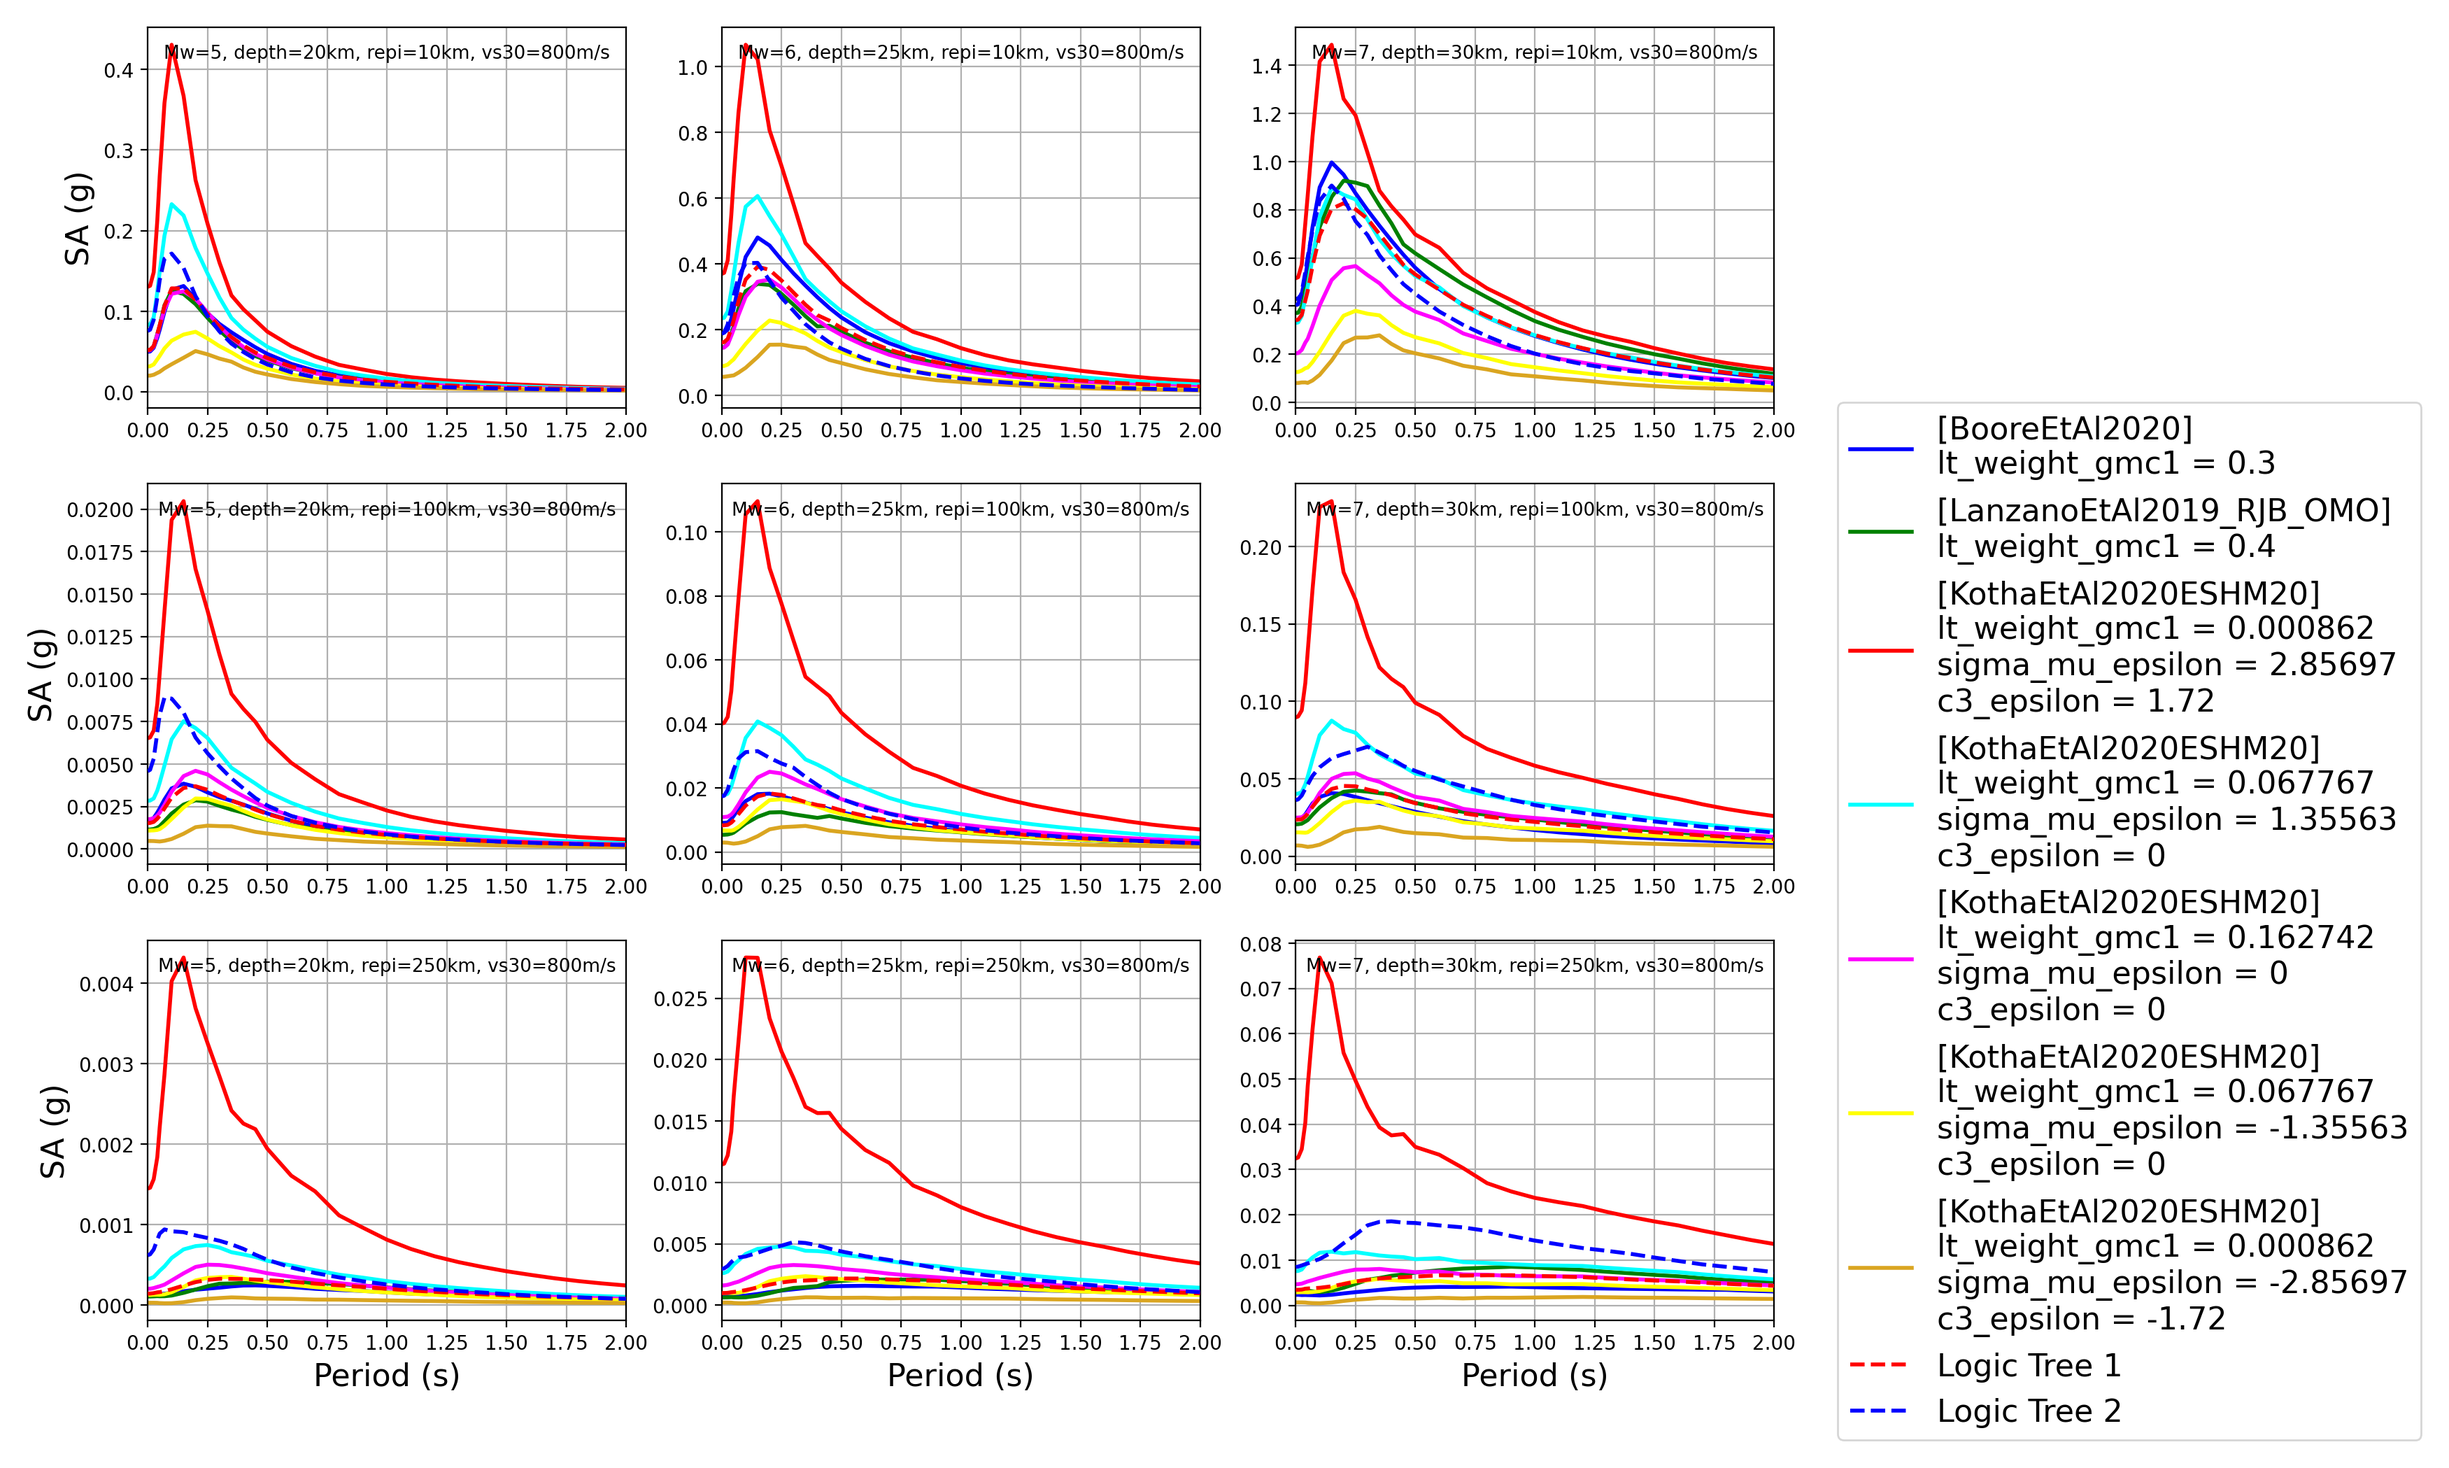
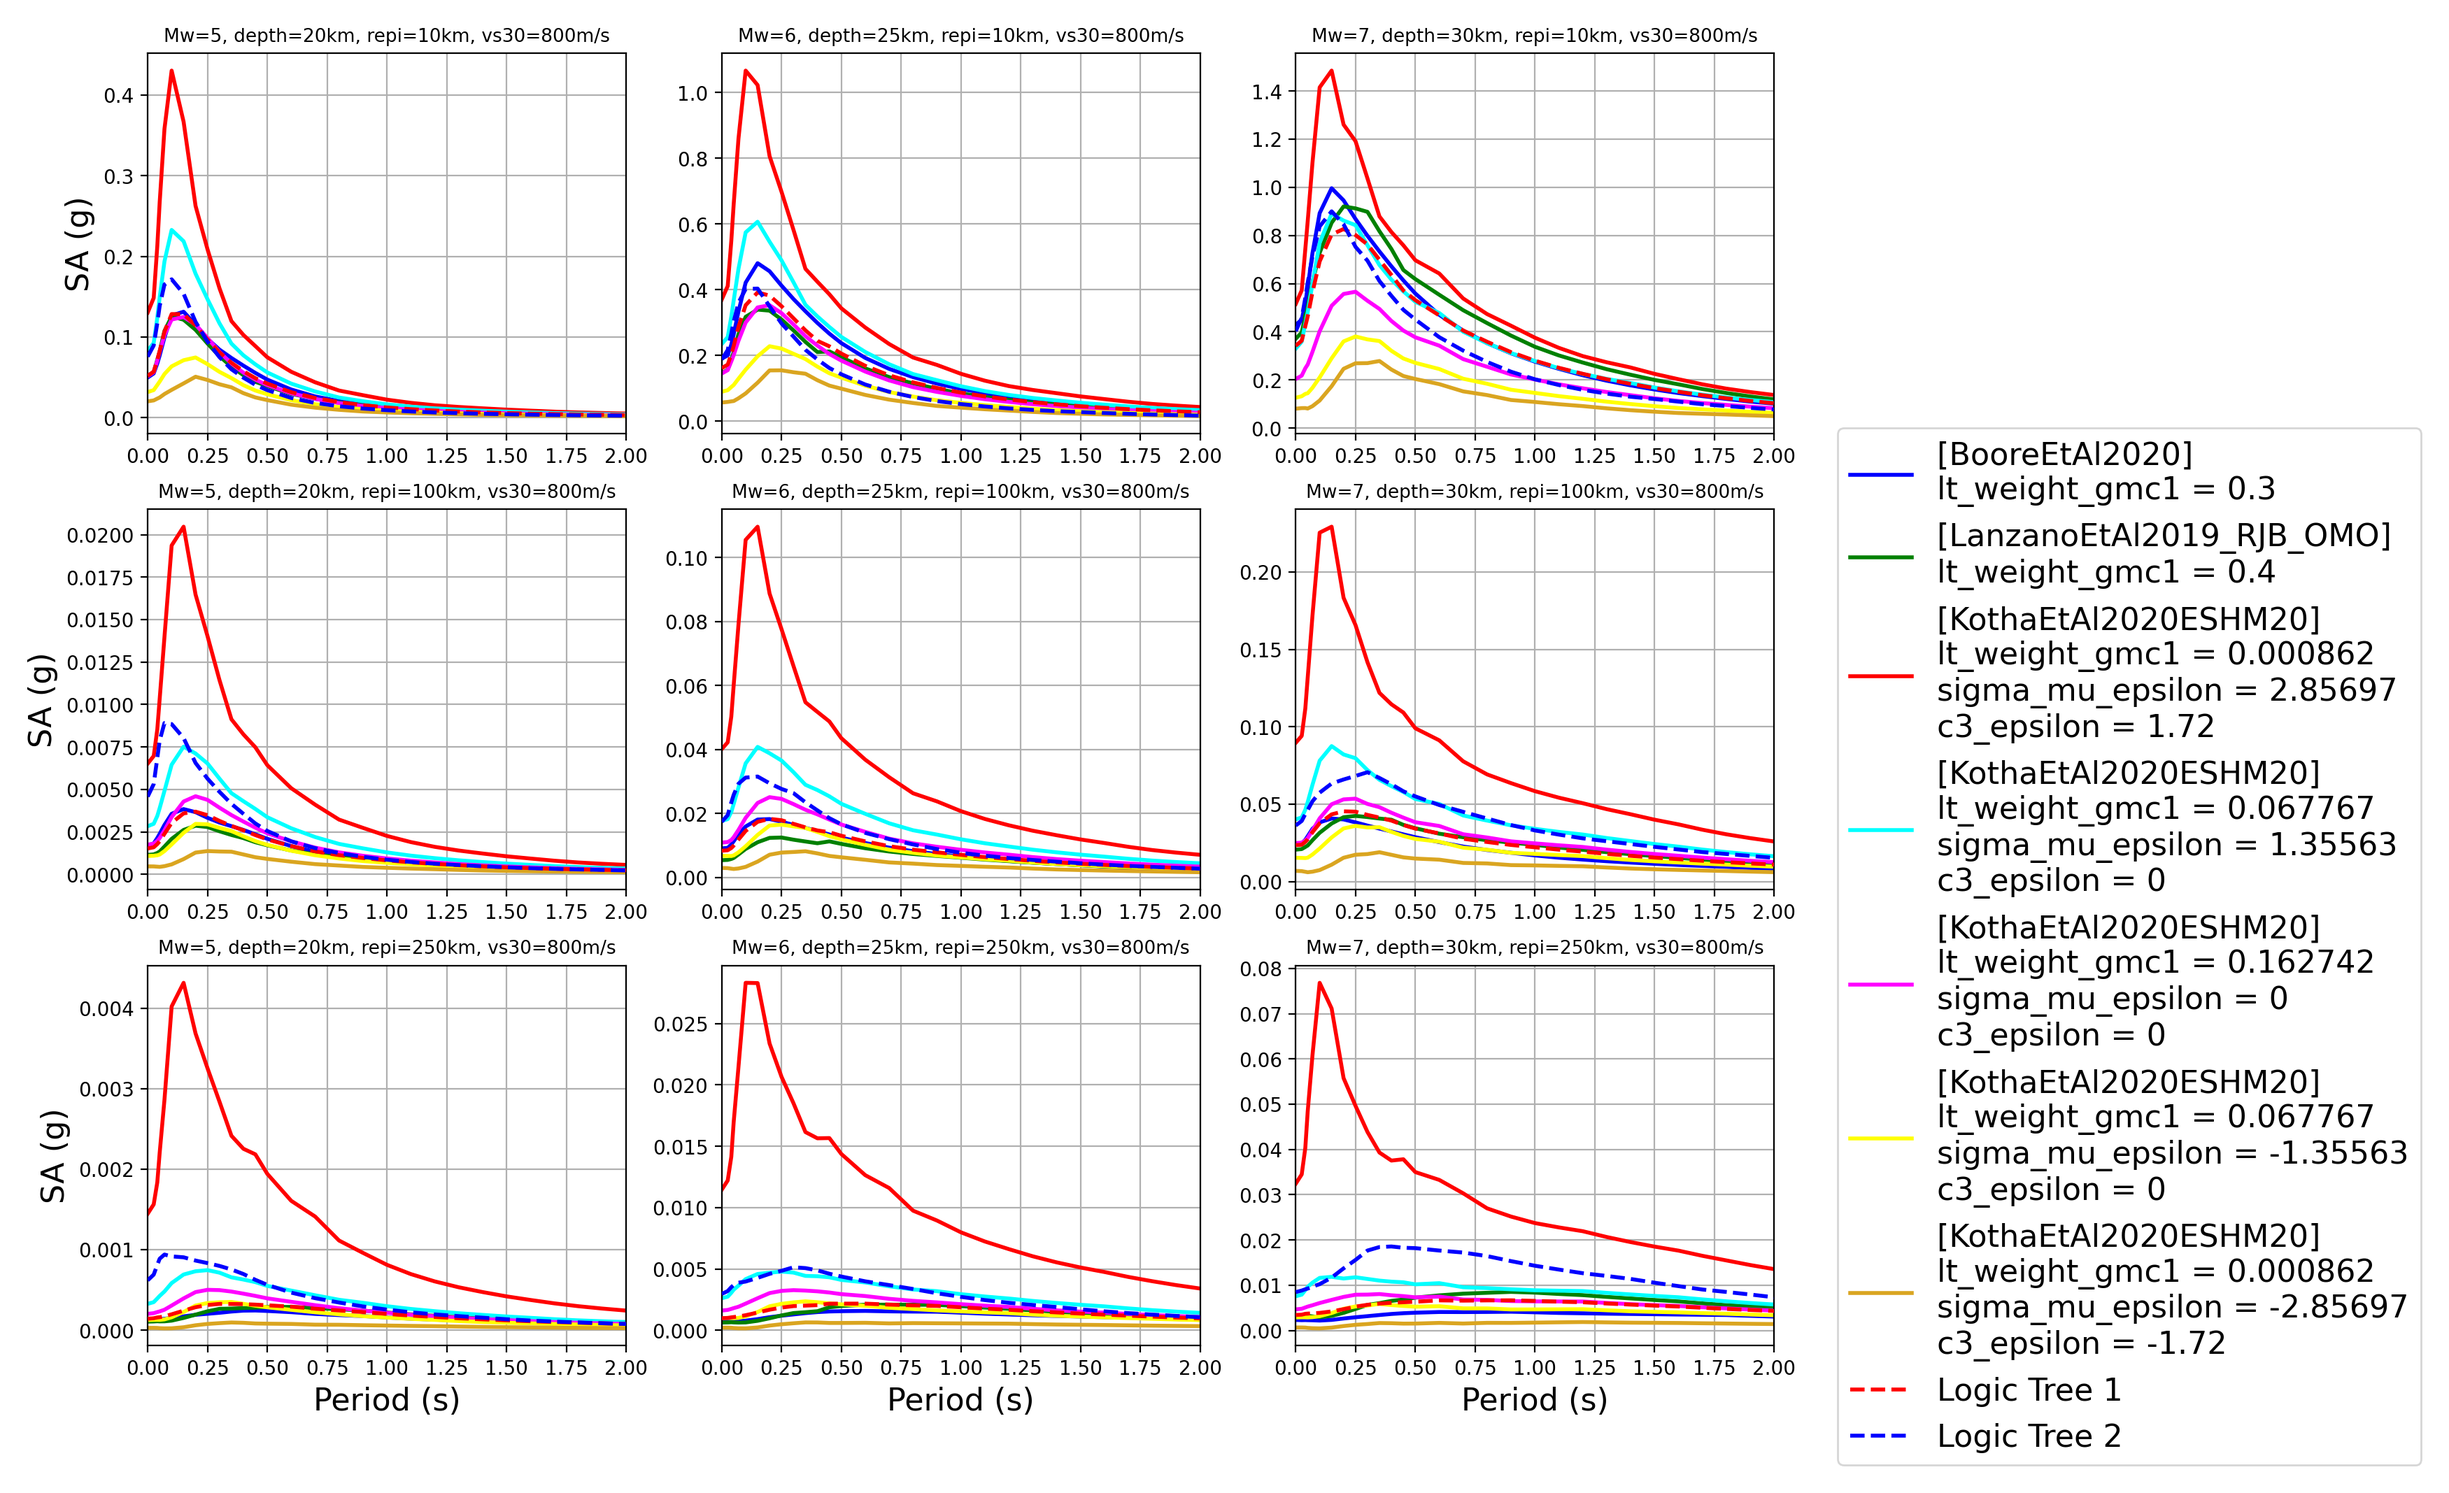
fix titles

diff --git a/openquake/smt/comparison/utils_compare_gmpes.py b/openquake/smt/comparison/utils_compare_gmpes.py
@@ -37,13 +37,13 @@ from openquake.smt.comparison.utils_gmpes import (get_imtl_unit,
 
 
 # Periods used in spectra plotting (truncated based on max_period in config)
-PERIODS = [PGA(), SA(0.01), SA(0.025), SA(0.04), SA(0.05), SA(0.07), SA(0.1),
-           SA(0.15), SA(0.2), SA(0.25), SA(0.3), SA(0.35), SA(0.4), SA(0.45),
-           SA(0.5), SA(0.6), SA(0.7), SA(0.8), SA(0.9), SA(1.0), SA(1.1), SA(1.2),
-           SA(1.3), SA(1.4), SA(1.5), SA(1.6), SA(1.7), SA(1.8), SA(1.9), SA(2.0),
-           SA(2.2), SA(2.4), SA(2.6), SA(2.8), SA(3.0), SA(3.2), SA(3.4), SA(3.6),
-           SA(3.8), SA(4.0), SA(4.5), SA(5.0), SA(5.5), SA(6.0), SA(6.5), SA(7.0),
-           SA(7.5), SA(8.0), SA(8.5), SA(9.0), SA(9.5), SA(10.0)]
+PERIODS = [PGA(), SA(0.025), SA(0.04), SA(0.05), SA(0.07), SA(0.1), SA(0.15),
+           SA(0.2), SA(0.25), SA(0.3), SA(0.35), SA(0.4), SA(0.45), SA(0.5),
+           SA(0.6), SA(0.7), SA(0.8), SA(0.9), SA(1.0), SA(1.1), SA(1.2), SA(1.3),
+           SA(1.4), SA(1.5), SA(1.6), SA(1.7), SA(1.8), SA(1.9), SA(2.0), SA(2.2),
+           SA(2.4), SA(2.6), SA(2.8), SA(3.0), SA(3.2), SA(3.4), SA(3.6), SA(3.8),
+           SA(4.0), SA(4.5), SA(5.0), SA(5.5), SA(6.0), SA(6.5), SA(7.0), SA(7.5),
+           SA(8.0), SA(8.5), SA(9.0), SA(9.5), SA(10.0)]
 
 # Fltering params for plotting observations against GMPEs
 MAG_LIM = 0.25 # Mw
@@ -1457,8 +1457,8 @@ def update_spectra_plots(ax, mag, depth_g, dist, vs30, d, m, dist_list, dist_typ
     Add titles and axis labels to spectra.
     """
     # Title
-    ax.set_title(f'Mw={mag}, depth={depth_g}km, {dist_type}={dist}km, vs30={vs30}m/s',
-                  fontsize=9.5, y=1.0, pad=-16)
+    pyplot.title(
+        f'Mw={mag}, depth={depth_g}km, {dist_type}={dist}km, vs30={vs30}m/s', fontsize=9.5)
 
      # Bottom row only
     if d == len(dist_list)-1:
